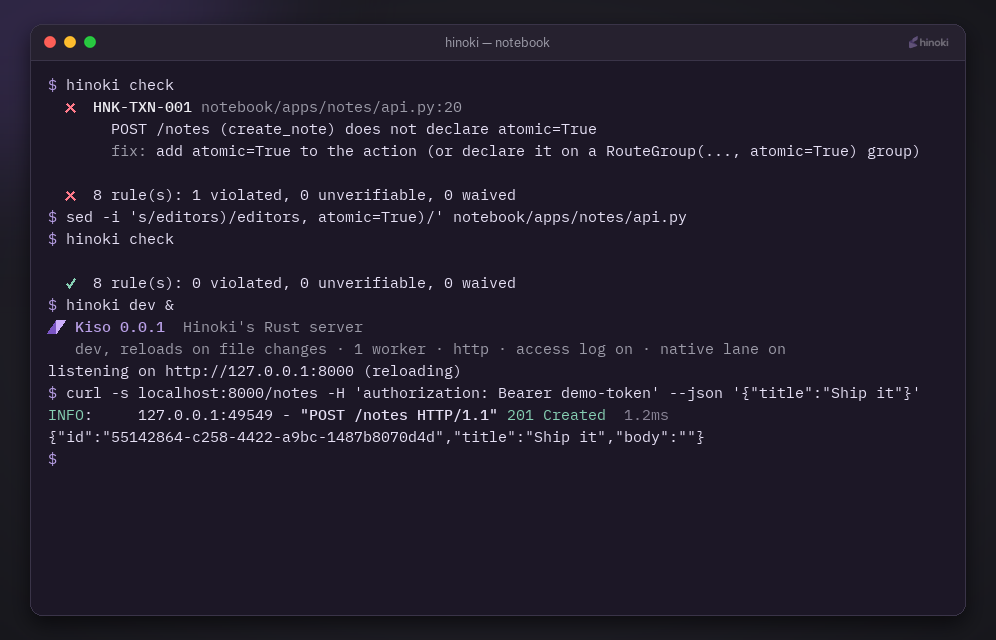
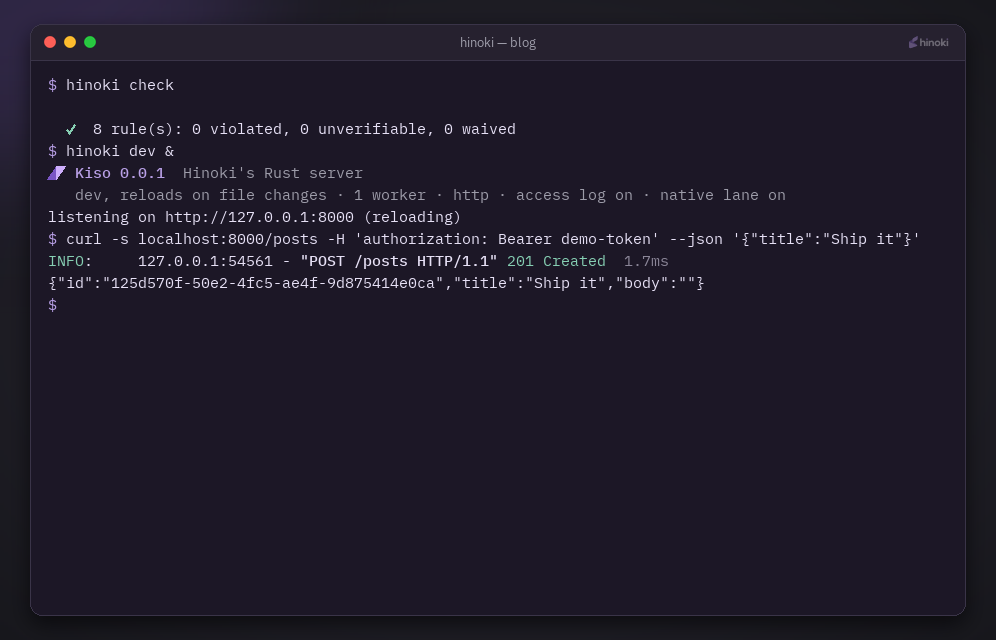
docs(readme): replace the demo with the blog and posts session

diff --git a/README.md b/README.md
@@ -35,10 +35,10 @@
 <p align="center">
   <picture>
     <source media="(prefers-reduced-motion: reduce)" srcset="assets/readme/demo.png">
-    <img src="assets/readme/demo.gif" alt="In a terminal window, hinoki new shows the Hinoki banner, asks for a project name, a database and a server, and creates the notebook project. hinoki app create notes adds a notes app, and its api.py declares a POST /notes action. hinoki check reports that POST /notes does not declare atomic=True; after atomic=True is added to the route group, it reports no violated rules. hinoki dev starts the Kiso server, and a curl request to POST /notes returns 201 Created with the new note." width="840">
+    <img src="assets/readme/demo.gif" alt="In a terminal window, hinoki new shows the Hinoki banner and asks for a project name, a database, a server and the rest; its last question, Create an app now?, is answered yes and the app is named posts. hinoki check reports no violated rules, hinoki dev starts the Kiso server, and a curl request to POST /posts returns 201 Created with the new post." width="840">
   </picture>
 </p>
-<p align="center"><sub>Real terminal output recorded by <a href="scripts/readme_demo.py"><code>scripts/readme_demo.py</code></a>; waits are shortened, and the app's source files and migrations are written off screen. The banner is the logo image that Hinoki prints in terminals with inline-image support (kitty, Ghostty, iTerm2, WezTerm); other terminals show a text banner instead.</sub></p>
+<p align="center"><sub>Real terminal output recorded by <a href="scripts/readme_demo.py"><code>scripts/readme_demo.py</code></a>; waits are shortened, and the posts app's source files and migrations are written off screen. The banner is the logo image that Hinoki prints in terminals with inline-image support (kitty, Ghostty, iTerm2, WezTerm); other terminals show a text banner instead.</sub></p>
 
 > [!WARNING]
 > **Pre-alpha, not released.** The API and the migration format may change. The [`hinoki` package on PyPI](https://pypi.org/project/hinoki/) is an unrelated project: install Hinoki from this repository and use disposable data.
